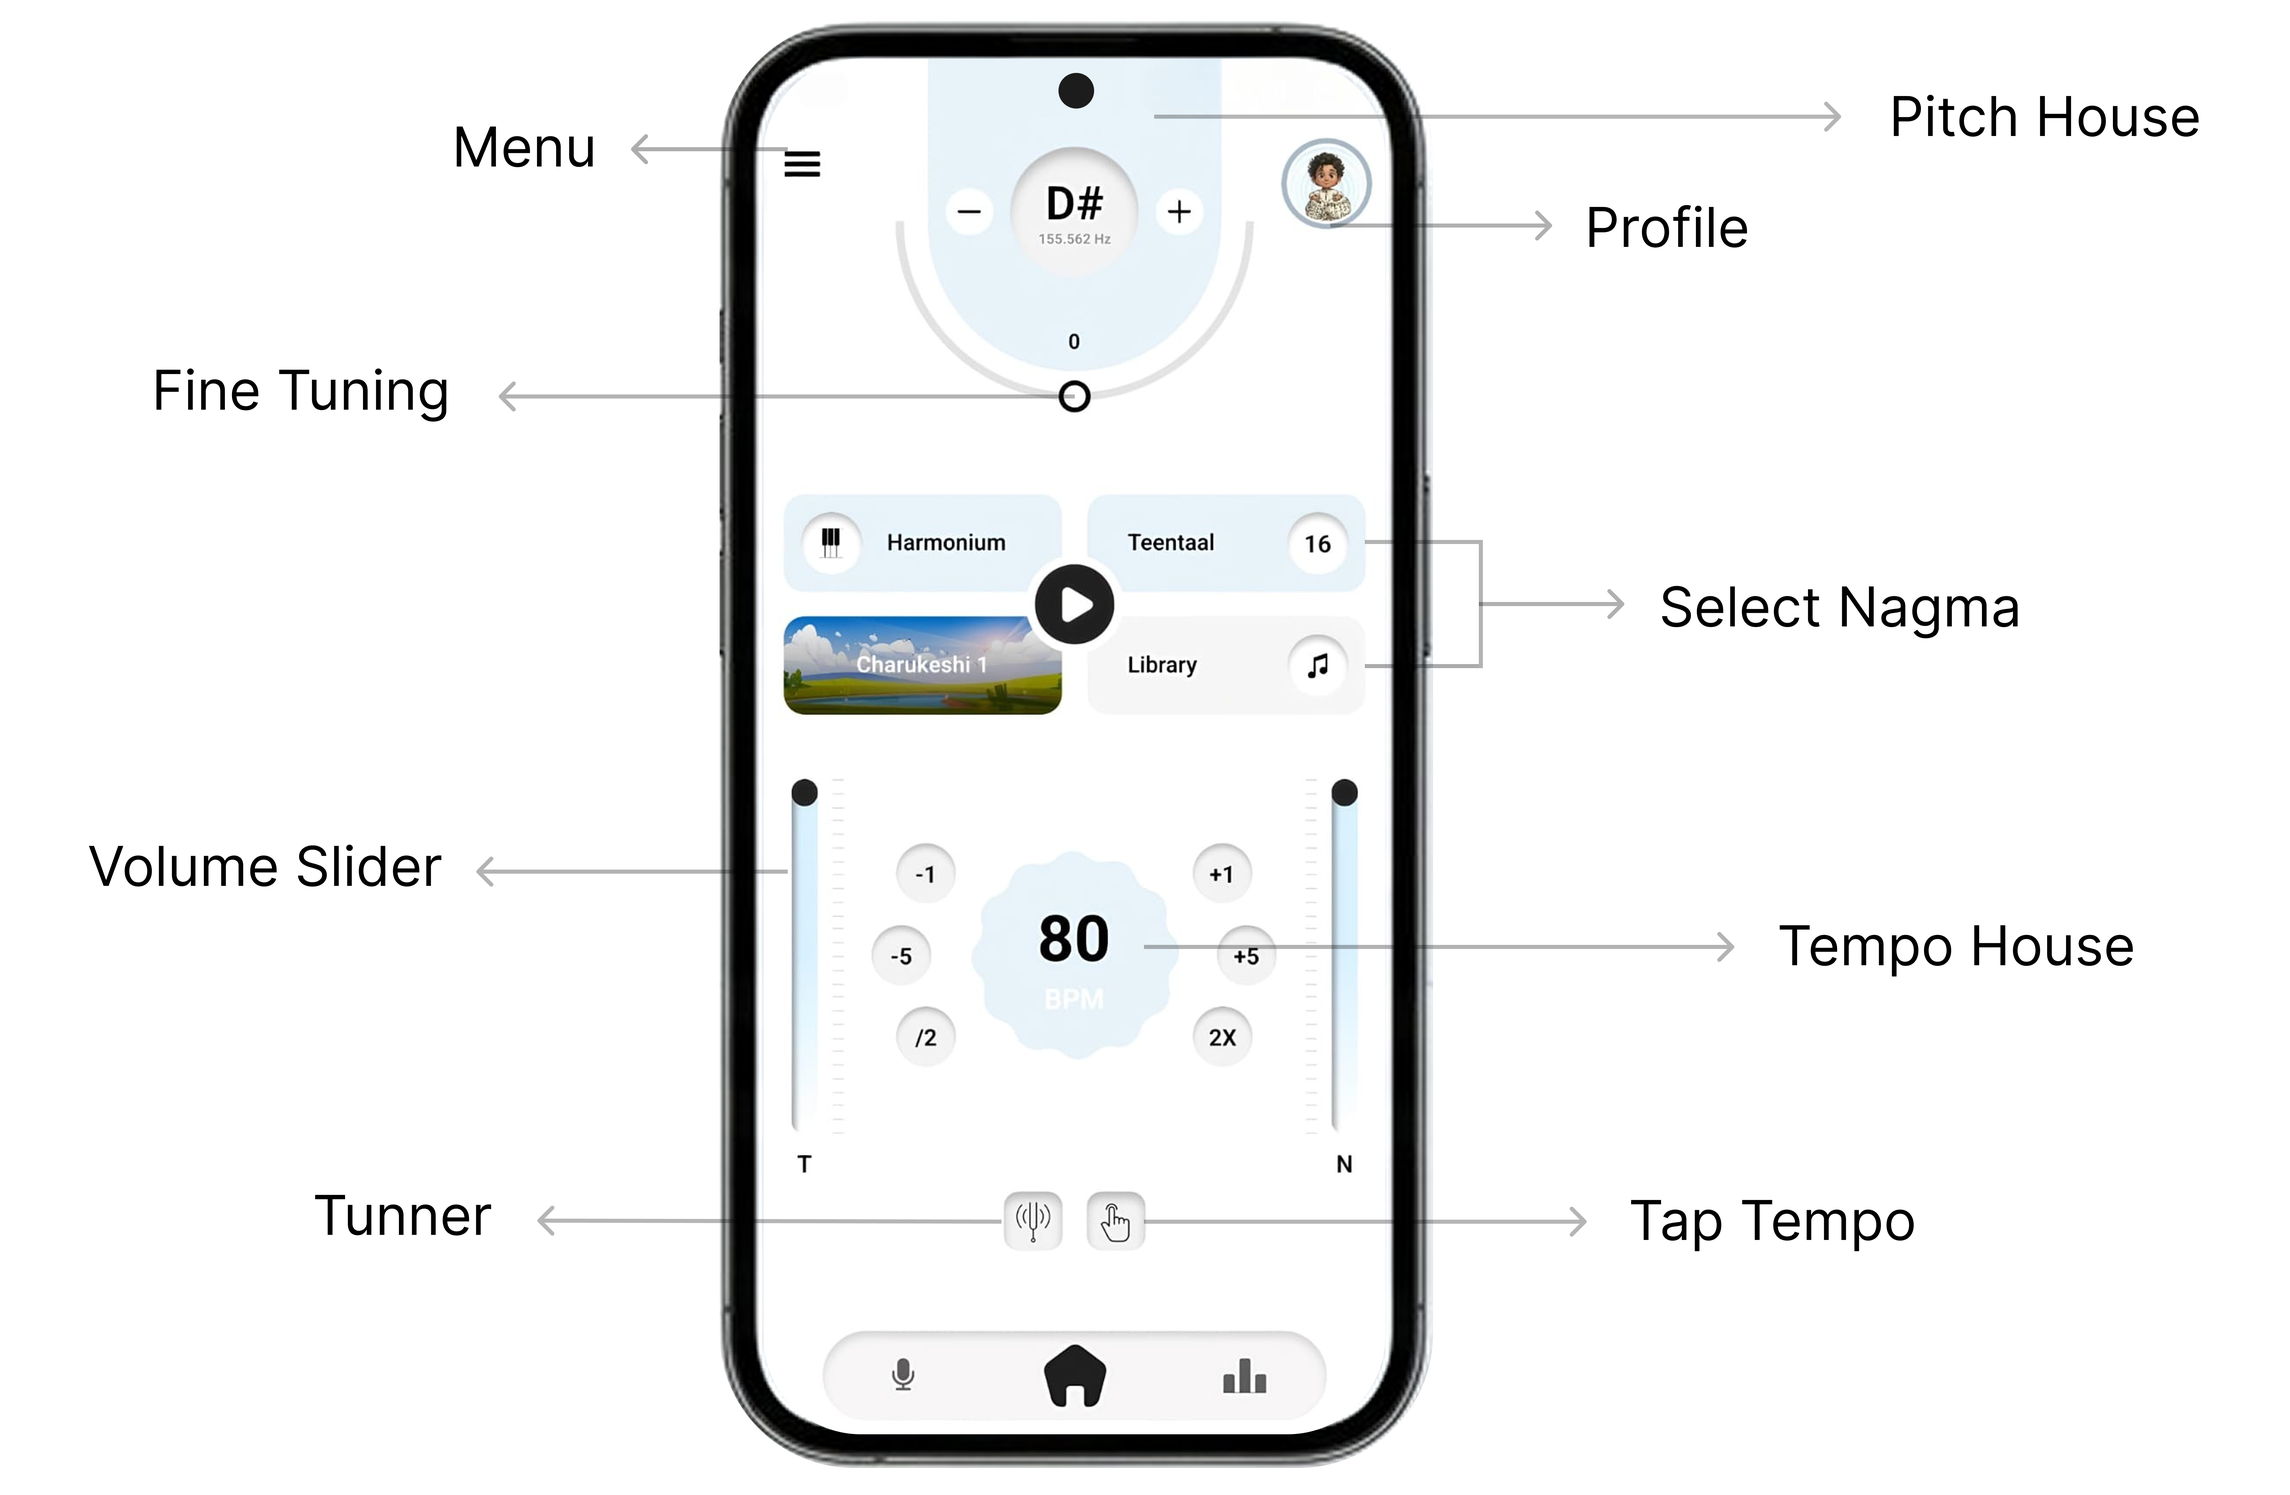
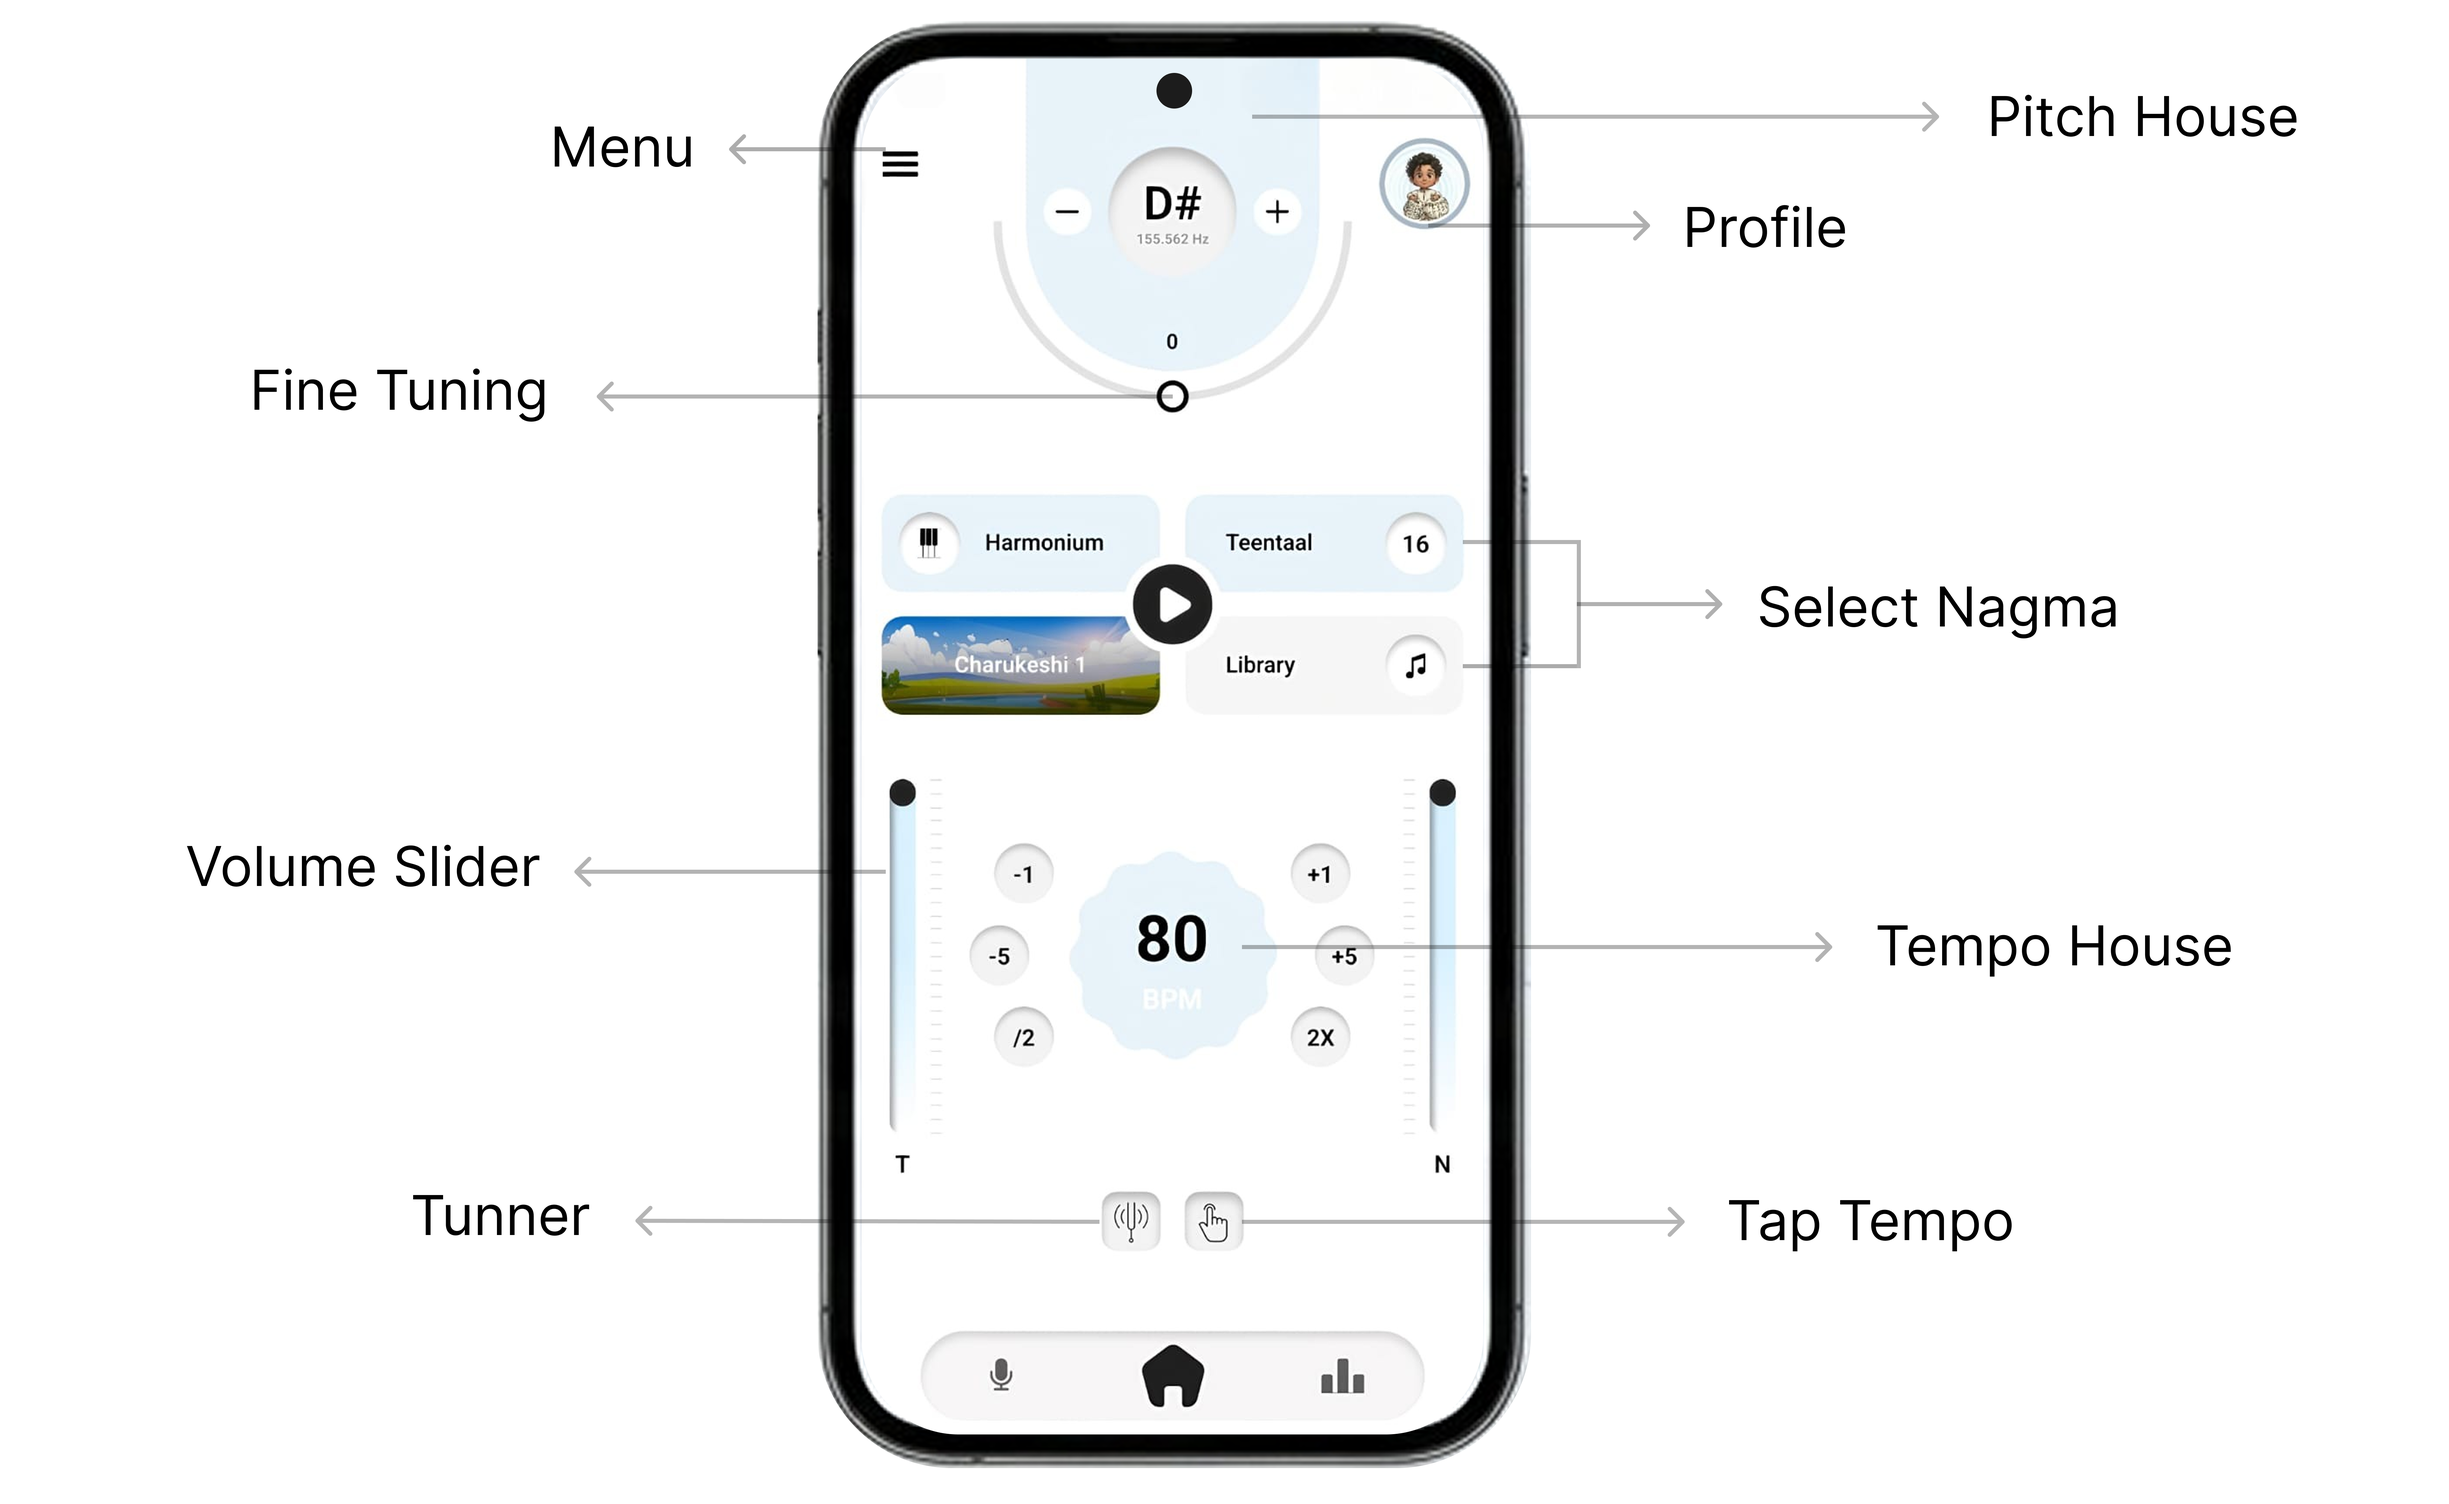
fix: app use images

diff --git a/components/AppUse.tsx b/components/AppUse.tsx
@@ -24,6 +24,14 @@ const arcBaseY = (index: number, total: number) => {
   return 0;
 };
 
+/** Intrinsic PNG size per asset — must match files in /public/appuse for correct layout/aspect. */
+const APP_USE_IMAGE_DIMS: Record<string, { width: number; height: number }> = {
+  "/appuse/app_use_1.png": { width: 6750, height: 4408 },
+  "/appuse/app_use_2.png": { width: 6526, height: 4347 },
+  "/appuse/app_use_3.png": { width: 7173, height: 4349 },
+};
+
+
 function useMinWidthSm() {
   return useSyncExternalStore(
     (onChange) => {
@@ -66,7 +74,7 @@ const AppUse = ({ data }: { data: AppUseData }) => {
           whileInView={{ opacity: 1, y: 0 }}
           viewport={{ once: true }}
           transition={{ duration: 0.5 }}
-          className="mb-4 text-center md:mb-5"
+          className="relative z-20 mb-4 text-center md:mb-5"
         >
           <h2 className="text-balance text-3xl font-bold tracking-[0.02em] text-foreground sm:text-4xl md:text-[2.5rem] md:leading-tight">
             {data.title}
@@ -86,16 +94,24 @@ const AppUse = ({ data }: { data: AppUseData }) => {
           aria-live="polite"
         >
           <div className="relative left-1/2 w-screen max-w-[100vw] -translate-x-1/2 px-0 sm:left-auto sm:w-full sm:max-w-[min(100%,1120px)] sm:translate-x-0 sm:px-0">
-            {/* KEY FIX: no min-h on mobile — image drives height naturally */}
-            <div className="relative w-full sm:min-h-[min(64vh,720px)]">
+            {/*
+              Mobile: natural image height. sm+: capped width + aspect box so cropped PNGs
+              (landscape canvas) do not blow up to full column width and overlap the heading.
+            */}
+            <div className="relative w-full min-h-0 sm:mx-auto sm:max-w-[min(100%,520px)] sm:overflow-hidden sm:aspect-[6750/4408] md:max-w-[540px] lg:max-w-[580px]">
               {data.tabs.map((tab, index) => {
                 const isShown = active === index;
+                const dims =
+                  APP_USE_IMAGE_DIMS[tab.image.src] ?? {
+                    width: 6750,
+                    height: 4408,
+                  };
                 return (
                   <motion.div
                     key={tab.image.src}
                     // KEY FIX: relative flow on mobile so image takes full natural size,
                     // absolute only on sm+ for the layered crossfade effect
-                    className="flex items-center justify-center px-0 sm:absolute sm:inset-0 sm:px-0"
+                    className="flex min-h-0 items-center justify-center px-0 sm:absolute sm:inset-0 sm:px-0"
                     style={{
                       // on mobile: hide non-active by collapsing to absolute+inset-0
                       position: !isShown ? "absolute" : undefined,
@@ -111,11 +127,10 @@ const AppUse = ({ data }: { data: AppUseData }) => {
                     <Image
                       src={tab.image.src}
                       alt={tab.image.alt}
-                      width={1200}
-                      height={2130}
-                      // KEY FIX: no max-h constraint on mobile — image fills full width naturally
-                      className="h-auto w-full object-contain [image-rendering:auto] drop-shadow-[0_24px_60px_-16px_rgba(15,23,42,0.18)] sm:max-h-[min(92vh,1020px)]"
-                      sizes="(max-width: 640px) 100vw, (max-width: 1280px) 95vw, 1120px"
+                      width={dims.width}
+                      height={dims.height}
+                      className="h-auto w-full object-contain [image-rendering:auto] drop-shadow-[0_24px_60px_-16px_rgba(15,23,42,0.18)] sm:h-full sm:w-full sm:max-h-full sm:max-w-full"
+                      sizes="(max-width: 640px) 100vw, (max-width: 1024px) 520px, 580px"
                       priority={index === 0}
                     />
                   </motion.div>
